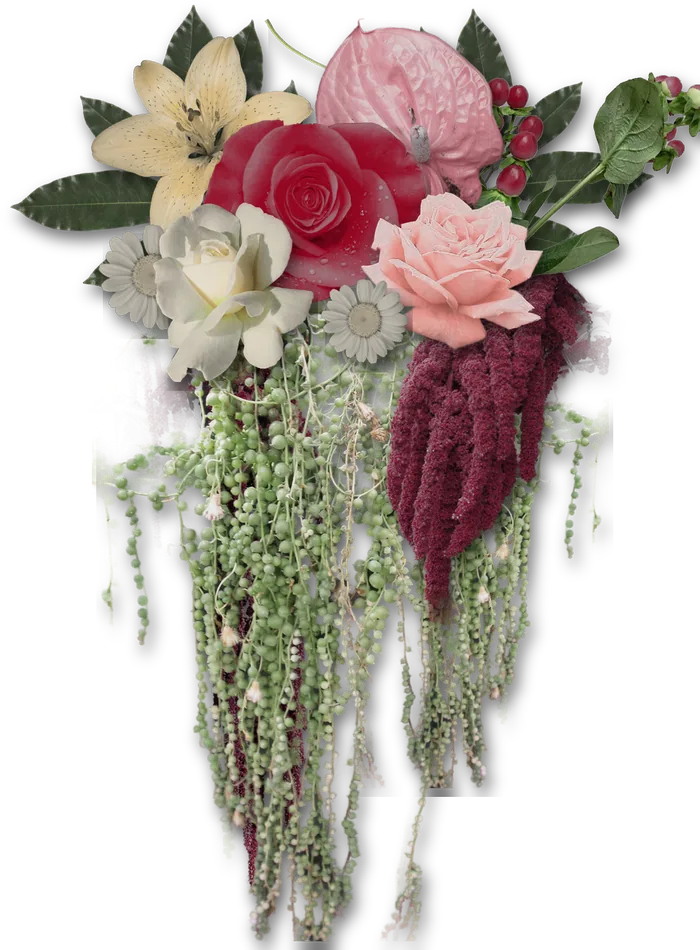
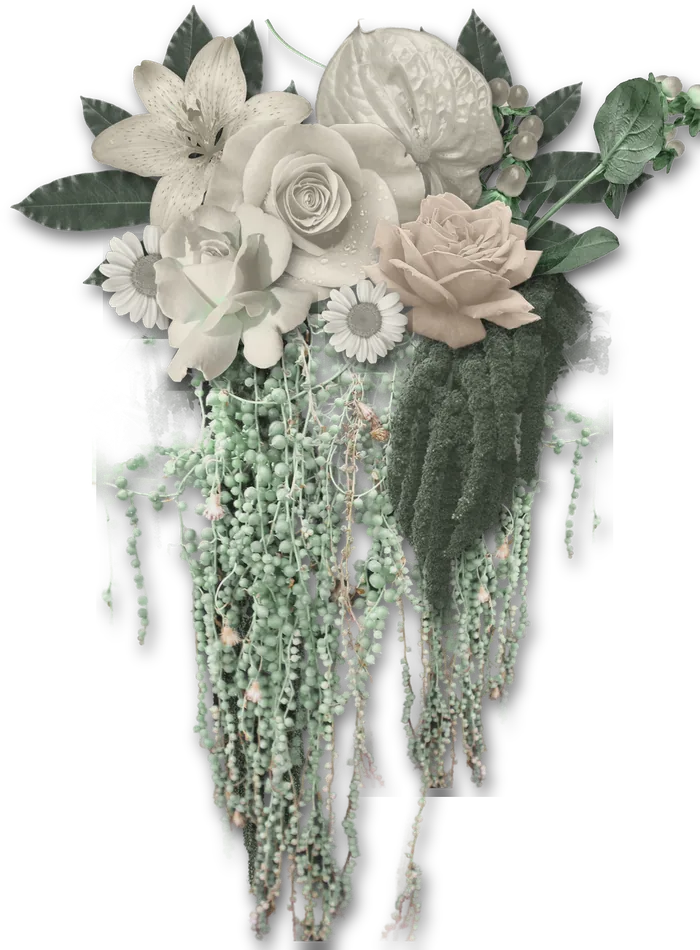
Beludru: bunga palet putih gading dengan daun sage

diff --git a/aset/bunga/KREDIT.md b/aset/bunga/KREDIT.md
@@ -18,4 +18,4 @@ Gambar `bunga-besar.webp`, `bunga-kecil.webp`, `bunga-juntai.webp`, dan `bunga-l
 | [Daisy](https://commons.wikimedia.org/wiki/File:Daisy.png) | Lubna | CC BY-SA 3.0 |
 | [Zantedeschia aethiopica](https://commons.wikimedia.org/wiki/File:Zantedeschia_aethiopica_002.png) | Amada44 | CC BY 3.0 |
 
-Perubahan: latar foto dihapus, warna bunga & daun disesuaikan ke palet tema (merah anggur, blush, krem, zaitun), lalu disusun menjadi rangkaian.
+Perubahan: latar foto dihapus, warna bunga & daun diubah ke palet putih gading (gading, krem, sampanye, sage), lalu disusun menjadi rangkaian.
